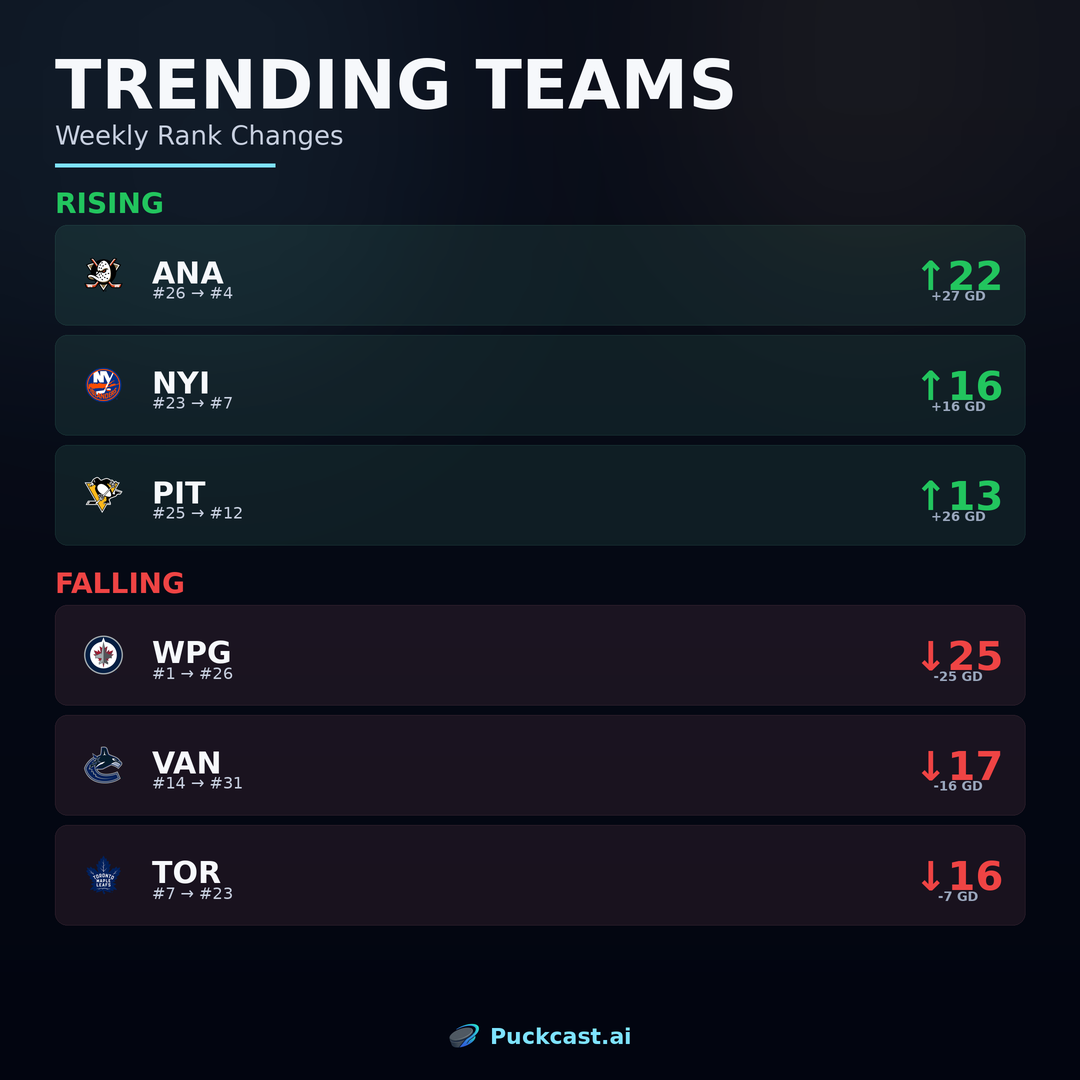
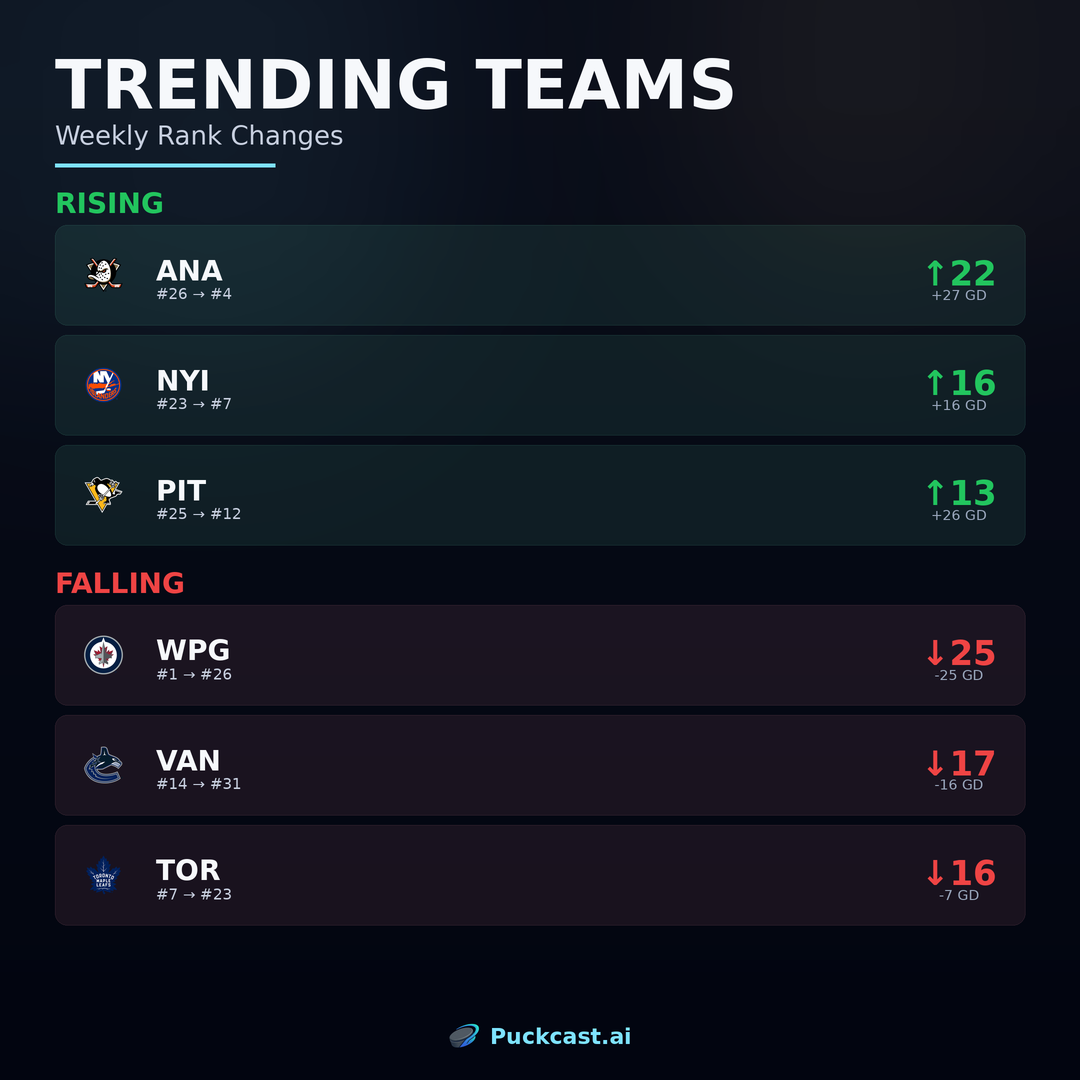
fix: improve trending teams spacing and alignment
- Increase spacing between team abbreviation and rank positions
- Reduce delta font size for better proportions
- Center-align delta numbers and GD text on right side
- Add proper margins and spacing throughout

diff --git a/graphics/templates/risers_fallers.py b/graphics/templates/risers_fallers.py
@@ -90,9 +90,9 @@ def draw_trend_row(
     result.paste(logo, (logo_x, logo_y), logo)
 
     # Team abbreviation and rank change
-    info_x = logo_x + logo_size + S(16)
-    abbrev_font = get_font(S(30), bold=True)
-    rank_font = get_font(S(16), bold=False)
+    info_x = logo_x + logo_size + S(20)
+    abbrev_font = get_font(S(28), bold=True)
+    rank_font = get_font(S(15), bold=False)
 
     abbrev_bbox = draw.textbbox((0, 0), abbrev, font=abbrev_font)
     abbrev_h = abbrev_bbox[3] - abbrev_bbox[1]
@@ -100,33 +100,42 @@ def draw_trend_row(
     rank_bbox = draw.textbbox((0, 0), rank_text, font=rank_font)
     rank_h = rank_bbox[3] - rank_bbox[1]
 
-    total_h = abbrev_h + S(6) + rank_h
+    text_spacing = S(10)  # More space between team name and rank
+    total_h = abbrev_h + text_spacing + rank_h
     text_y = row_center_y - total_h // 2
 
     draw.text((info_x, text_y), abbrev, fill=hex_to_rgb(PuckcastColors.TEXT_PRIMARY), font=abbrev_font)
-    draw.text((info_x, text_y + abbrev_h + S(6)), rank_text, fill=hex_to_rgb(PuckcastColors.TEXT_SECONDARY), font=rank_font)
+    draw.text((info_x, text_y + abbrev_h + text_spacing), rank_text, fill=hex_to_rgb(PuckcastColors.TEXT_SECONDARY), font=rank_font)
 
     # Rank delta on the right - stack vertically with proper spacing
-    delta_font = get_font(S(40), bold=True)
+    delta_font = get_font(S(34), bold=True)
     delta_text = f"↑{abs(rank_delta)}" if rank_delta > 0 else f"↓{abs(rank_delta)}"
     delta_bbox = draw.textbbox((0, 0), delta_text, font=delta_font)
     delta_w = delta_bbox[2] - delta_bbox[0]
     delta_h = delta_bbox[3] - delta_bbox[1]
 
-    gd_font = get_font(S(13), bold=True)
+    gd_font = get_font(S(14), bold=False)
     gd_text = f"+{goal_diff_delta} GD" if goal_diff_delta > 0 else f"{goal_diff_delta} GD"
     gd_bbox = draw.textbbox((0, 0), gd_text, font=gd_font)
     gd_w = gd_bbox[2] - gd_bbox[0]
     gd_h = gd_bbox[3] - gd_bbox[1]
 
-    # Position on right side with proper spacing
-    right_x = img.width - margin - max(delta_w, gd_w) - S(22)
-    spacing = S(6)  # More space between delta and GD
-    total_right_h = delta_h + spacing + gd_h
+    # Position on right side - center-align both elements
+    right_margin = S(28)
+    max_w = max(delta_w, gd_w)
+    right_x_base = img.width - margin - max_w - right_margin
+
+    delta_spacing = S(8)  # Space between delta and GD
+    total_right_h = delta_h + delta_spacing + gd_h
     right_y = row_center_y - total_right_h // 2
 
-    draw.text((right_x, right_y), delta_text, fill=accent_color, font=delta_font)
-    draw.text((right_x + (delta_w - gd_w) // 2, right_y + delta_h + spacing), gd_text, fill=hex_to_rgb(PuckcastColors.TEXT_TERTIARY), font=gd_font)
+    # Center delta text within max width
+    delta_x = right_x_base + (max_w - delta_w) // 2
+    draw.text((delta_x, right_y), delta_text, fill=accent_color, font=delta_font)
+
+    # Center GD text within max width
+    gd_x = right_x_base + (max_w - gd_w) // 2
+    draw.text((gd_x, right_y + delta_h + delta_spacing), gd_text, fill=hex_to_rgb(PuckcastColors.TEXT_TERTIARY), font=gd_font)
 
     img.paste(result.convert("RGB"))
 
